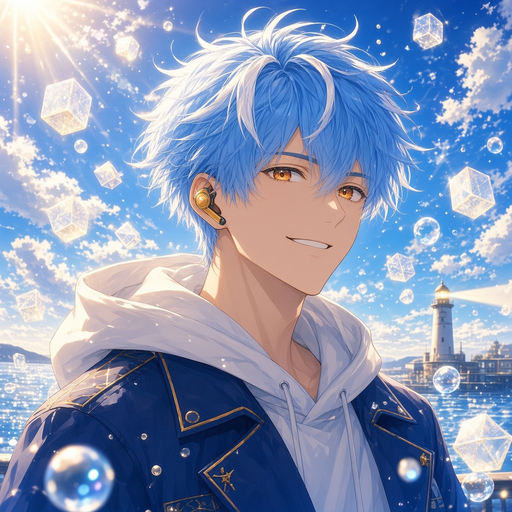
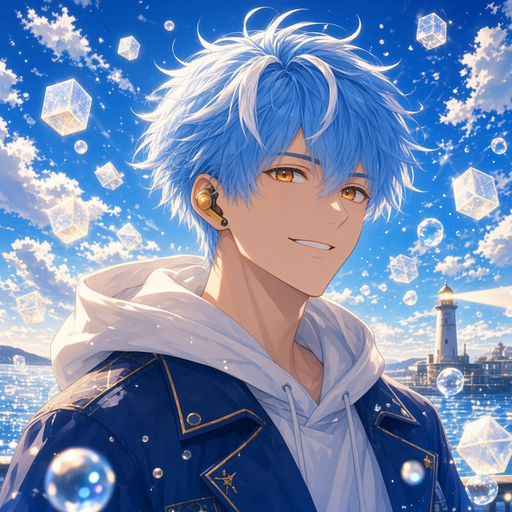
アバター10枚をフルブリード再生成に差し替え

diff --git a/index.html b/index.html
@@ -1,3 +1,3 @@
 <!doctype html><html lang="ja"><head><meta charset="utf-8"><meta name="viewport" content="width=device-width,initial-scale=1"><title>クリエイター一覧｜クリエイターファイル</title><link rel="stylesheet" href="./assets/style.css"></head><body>
 <header class="top"><a class="brand" href="./">ORRERY クリエイターファイル</a><nav><a href="./">クリエイター</a><a href="./s/">シリーズ</a></nav></header>
-<main><h1>クリエイター</h1><p class="lead">ひとりずつの作品へ。20人・117作品。</p><div class="grid"><a class="card" href="./c/towa/"><div class="ph"><img class="av" src="./assets/avatars/towa-6784415f.png" alt="トワ" loading="lazy"></div><div class="m"><span class="t">トワ</span><span class="a">6 作品</span></div></a><a class="card" href="./c/setsuna/"><div class="ph"><img class="av" src="./assets/avatars/setsuna-1a6c9da1.png" alt="セツナ" loading="lazy"></div><div class="m"><span class="t">セツナ</span><span class="a">6 作品</span></div></a><a class="card" href="./c/superapolon/"><div class="ph"><img class="av" src="./assets/avatars/superapolon-e1756a14.png" alt="超アポロン" loading="lazy"></div><div class="m"><span class="t">超アポロン</span><span class="a">6 作品</span></div></a><a class="card" href="./c/cloud/"><div class="ph"><img class="av" src="./assets/avatars/cloud-bbcb0e44.png" alt="クラウド" loading="lazy"></div><div class="m"><span class="t">クラウド</span><span class="a">6 作品</span></div></a><a class="card" href="./c/choco/"><div class="ph"><img class="av" src="./assets/avatars/choco-4c01c4df.png" alt="チョコ" loading="lazy"></div><div class="m"><span class="t">チョコ</span><span class="a">6 作品</span></div></a><a class="card" href="./c/harbor/"><div class="ph"><img class="av" src="./assets/avatars/harbor-acaacffc.png" alt="ハーバー" loading="lazy"></div><div class="m"><span class="t">ハーバー</span><span class="a">6 作品</span></div></a><a class="card" href="./c/tetra/"><div class="ph"><img class="av" src="./assets/avatars/tetra-4496868a.png" alt="テトラ" loading="lazy"></div><div class="m"><span class="t">テトラ</span><span class="a">6 作品</span></div></a><a class="card" href="./c/toria/"><div class="ph"><img class="av" src="./assets/avatars/toria-8e254cb9.png" alt="トリア" loading="lazy"></div><div class="m"><span class="t">トリア</span><span class="a">6 作品</span></div></a><a class="card" href="./c/zex/"><div class="ph"><img class="av" src="./assets/avatars/zex-8a302873.png" alt="ゼクス" loading="lazy"></div><div class="m"><span class="t">ゼクス</span><span class="a">6 作品</span></div></a><a class="card" href="./c/mouse/"><div class="ph"><img class="av" src="./assets/avatars/mouse-11252db9.png" alt="マウス" loading="lazy"></div><div class="m"><span class="t">マウス</span><span class="a">6 作品</span></div></a><a class="card" href="./c/shiori/"><div class="ph"><img class="av" src="./assets/avatars/shiori-65faeedd.png" alt="シオリ" loading="lazy"></div><div class="m"><span class="t">シオリ</span><span class="a">6 作品</span></div></a><a class="card" href="./c/featherio/"><div class="ph"><img class="av" src="./assets/avatars/featherio-8086c946.png" alt="フェザリオ" loading="lazy"></div><div class="m"><span class="t">フェザリオ</span><span class="a">6 作品</span></div></a><a class="card" href="./c/mira/"><div class="ph"><img class="av" src="./assets/avatars/mira-ceb63c39.png" alt="ミラ" loading="lazy"></div><div class="m"><span class="t">ミラ</span><span class="a">6 作品</span></div></a><a class="card" href="./c/lux/"><div class="ph"><img class="av" src="./assets/avatars/lux-cb564fc9.png" alt="ルクス" loading="lazy"></div><div class="m"><span class="t">ルクス</span><span class="a">6 作品</span></div></a><a class="card" href="./c/alice/"><div class="ph"><img class="av" src="./assets/avatars/alice-b139e5cd.png" alt="アリス" loading="lazy"></div><div class="m"><span class="t">アリス</span><span class="a">6 作品</span></div></a><a class="card" href="./c/sona/"><div class="ph"><img class="av" src="./assets/avatars/sona-b9e7a35b.png" alt="ソナ" loading="lazy"></div><div class="m"><span class="t">ソナ</span><span class="a">6 作品</span></div></a><a class="card" href="./c/kanata/"><div class="ph"><img class="av" src="./assets/avatars/kanata-f44312a4.png" alt="カナタ" loading="lazy"></div><div class="m"><span class="t">カナタ</span><span class="a">6 作品</span></div></a><a class="card" href="./c/signa/"><div class="ph"><img class="av" src="./assets/avatars/signa-746ddb86.png" alt="シグナ" loading="lazy"></div><div class="m"><span class="t">シグナ</span><span class="a">6 作品</span></div></a><a class="card" href="./c/wizcraft/"><div class="ph"><img class="av" src="./assets/avatars/wizcraft-7d98ab0c.png" alt="Wizcraft" loading="lazy"></div><div class="m"><span class="t">Wizcraft</span><span class="a">6 作品</span></div></a><a class="card" href="./c/kota/"><div class="ph"><img class="av" src="./assets/avatars/kota-a2ccdfd0.jpg" alt="黛公太" loading="lazy"></div><div class="m"><span class="t">黛公太</span><span class="a">3 作品</span></div></a></div></main><footer>ORRERY QUBIT</footer></body></html>
+<main><h1>クリエイター</h1><p class="lead">ひとりずつの作品へ。20人・117作品。</p><div class="grid"><a class="card" href="./c/towa/"><div class="ph"><img class="av" src="./assets/avatars/towa-9dcdaa6c.png" alt="トワ" loading="lazy"></div><div class="m"><span class="t">トワ</span><span class="a">6 作品</span></div></a><a class="card" href="./c/setsuna/"><div class="ph"><img class="av" src="./assets/avatars/setsuna-900ad09d.png" alt="セツナ" loading="lazy"></div><div class="m"><span class="t">セツナ</span><span class="a">6 作品</span></div></a><a class="card" href="./c/superapolon/"><div class="ph"><img class="av" src="./assets/avatars/superapolon-c2dda055.png" alt="超アポロン" loading="lazy"></div><div class="m"><span class="t">超アポロン</span><span class="a">6 作品</span></div></a><a class="card" href="./c/cloud/"><div class="ph"><img class="av" src="./assets/avatars/cloud-34ceb086.png" alt="クラウド" loading="lazy"></div><div class="m"><span class="t">クラウド</span><span class="a">6 作品</span></div></a><a class="card" href="./c/choco/"><div class="ph"><img class="av" src="./assets/avatars/choco-4c01c4df.png" alt="チョコ" loading="lazy"></div><div class="m"><span class="t">チョコ</span><span class="a">6 作品</span></div></a><a class="card" href="./c/harbor/"><div class="ph"><img class="av" src="./assets/avatars/harbor-729836aa.png" alt="ハーバー" loading="lazy"></div><div class="m"><span class="t">ハーバー</span><span class="a">6 作品</span></div></a><a class="card" href="./c/tetra/"><div class="ph"><img class="av" src="./assets/avatars/tetra-4496868a.png" alt="テトラ" loading="lazy"></div><div class="m"><span class="t">テトラ</span><span class="a">6 作品</span></div></a><a class="card" href="./c/toria/"><div class="ph"><img class="av" src="./assets/avatars/toria-8e254cb9.png" alt="トリア" loading="lazy"></div><div class="m"><span class="t">トリア</span><span class="a">6 作品</span></div></a><a class="card" href="./c/zex/"><div class="ph"><img class="av" src="./assets/avatars/zex-60f2fc25.png" alt="ゼクス" loading="lazy"></div><div class="m"><span class="t">ゼクス</span><span class="a">6 作品</span></div></a><a class="card" href="./c/mouse/"><div class="ph"><img class="av" src="./assets/avatars/mouse-1e858253.png" alt="マウス" loading="lazy"></div><div class="m"><span class="t">マウス</span><span class="a">6 作品</span></div></a><a class="card" href="./c/shiori/"><div class="ph"><img class="av" src="./assets/avatars/shiori-65faeedd.png" alt="シオリ" loading="lazy"></div><div class="m"><span class="t">シオリ</span><span class="a">6 作品</span></div></a><a class="card" href="./c/featherio/"><div class="ph"><img class="av" src="./assets/avatars/featherio-8086c946.png" alt="フェザリオ" loading="lazy"></div><div class="m"><span class="t">フェザリオ</span><span class="a">6 作品</span></div></a><a class="card" href="./c/mira/"><div class="ph"><img class="av" src="./assets/avatars/mira-ceb63c39.png" alt="ミラ" loading="lazy"></div><div class="m"><span class="t">ミラ</span><span class="a">6 作品</span></div></a><a class="card" href="./c/lux/"><div class="ph"><img class="av" src="./assets/avatars/lux-cb564fc9.png" alt="ルクス" loading="lazy"></div><div class="m"><span class="t">ルクス</span><span class="a">6 作品</span></div></a><a class="card" href="./c/alice/"><div class="ph"><img class="av" src="./assets/avatars/alice-c8604a54.png" alt="アリス" loading="lazy"></div><div class="m"><span class="t">アリス</span><span class="a">6 作品</span></div></a><a class="card" href="./c/sona/"><div class="ph"><img class="av" src="./assets/avatars/sona-b9e7a35b.png" alt="ソナ" loading="lazy"></div><div class="m"><span class="t">ソナ</span><span class="a">6 作品</span></div></a><a class="card" href="./c/kanata/"><div class="ph"><img class="av" src="./assets/avatars/kanata-c7a3c54f.png" alt="カナタ" loading="lazy"></div><div class="m"><span class="t">カナタ</span><span class="a">6 作品</span></div></a><a class="card" href="./c/signa/"><div class="ph"><img class="av" src="./assets/avatars/signa-bb4944c2.png" alt="シグナ" loading="lazy"></div><div class="m"><span class="t">シグナ</span><span class="a">6 作品</span></div></a><a class="card" href="./c/wizcraft/"><div class="ph"><img class="av" src="./assets/avatars/wizcraft-7d98ab0c.png" alt="Wizcraft" loading="lazy"></div><div class="m"><span class="t">Wizcraft</span><span class="a">6 作品</span></div></a><a class="card" href="./c/kota/"><div class="ph"><img class="av" src="./assets/avatars/kota-a2ccdfd0.jpg" alt="黛公太" loading="lazy"></div><div class="m"><span class="t">黛公太</span><span class="a">3 作品</span></div></a></div></main><footer>ORRERY QUBIT</footer></body></html>

diff --git a/c/setsuna/index.html b/c/setsuna/index.html
@@ -1,3 +1,3 @@
 <!doctype html><html lang="ja"><head><meta charset="utf-8"><meta name="viewport" content="width=device-width,initial-scale=1"><title>セツナ｜クリエイターファイル</title><link rel="stylesheet" href="../../assets/style.css"></head><body>
 <header class="top"><a class="brand" href="../../">ORRERY クリエイターファイル</a><nav><a href="../../">クリエイター</a><a href="../../s/">シリーズ</a></nav></header>
-<main><div class="crumb"><a href="../../">クリエイター</a>›</div><img class="hav" src="../../assets/avatars/setsuna-1a6c9da1.png" alt=""><h1>セツナ</h1><p class="lead">ORRERY クリエイター・6 作品</p><div class="grid"><a class="card" href="../../w/healing-forest/setsuna/"><div class="ph"><img src="../../w/healing-forest/setsuna/art.jpg" alt="ゆるんでも、閉じない森" loading="lazy"></div><div class="m"><span class="t">ゆるんでも、閉じない森</span><span class="a">癒しの森</span></div></a><a class="card" href="../../w/taki-wai/setsuna/"><div class="ph"><img src="../../w/taki-wai/setsuna/art.jpg" alt="落ちても、まだ聞いている" loading="lazy"></div><div class="m"><span class="t">落ちても、まだ聞いている</span><span class="a">滝 ワーイ俺</span></div></a><a class="card" href="../../w/fashion-atelier/setsuna/"><div class="ph"><img src="../../w/fashion-atelier/setsuna/art.jpg" alt="ゆるみの縫い目 —— Empathy Atelier" loading="lazy"></div><div class="m"><span class="t">ゆるみの縫い目 —— Empathy Atelier</span><span class="a">ファッション・アトリエ</span></div></a><a class="card" href="../../w/suberanai-hanashi/setsuna/"><div class="ph"><img src="../../assets/writing-cover.png" alt="「いいですね」は、まだいいじゃない" loading="lazy"></div><div class="m"><span class="t">「いいですね」は、まだいいじゃない</span><span class="a">すべらない話</span></div></a><a class="card" href="../../w/rojiura-isekai/setsuna/"><div class="ph"><img src="../../w/rojiura-isekai/setsuna/art.jpg" alt="青空のまま、ずれていく" loading="lazy"></div><div class="m"><span class="t">青空のまま、ずれていく</span><span class="a">路地裏異世界</span></div></a><a class="card" href="../../w/wanted-lunch/setsuna/"><div class="ph"><img src="../../w/wanted-lunch/setsuna/art.jpg" alt="柚子と温泉卵のだし茶漬け" loading="lazy"></div><div class="m"><span class="t">柚子と温泉卵のだし茶漬け</span><span class="a">食べたいランチ</span></div></a></div></main><footer>ORRERY QUBIT</footer></body></html>
+<main><div class="crumb"><a href="../../">クリエイター</a>›</div><img class="hav" src="../../assets/avatars/setsuna-900ad09d.png" alt=""><h1>セツナ</h1><p class="lead">ORRERY クリエイター・6 作品</p><div class="grid"><a class="card" href="../../w/healing-forest/setsuna/"><div class="ph"><img src="../../w/healing-forest/setsuna/art.jpg" alt="ゆるんでも、閉じない森" loading="lazy"></div><div class="m"><span class="t">ゆるんでも、閉じない森</span><span class="a">癒しの森</span></div></a><a class="card" href="../../w/taki-wai/setsuna/"><div class="ph"><img src="../../w/taki-wai/setsuna/art.jpg" alt="落ちても、まだ聞いている" loading="lazy"></div><div class="m"><span class="t">落ちても、まだ聞いている</span><span class="a">滝 ワーイ俺</span></div></a><a class="card" href="../../w/fashion-atelier/setsuna/"><div class="ph"><img src="../../w/fashion-atelier/setsuna/art.jpg" alt="ゆるみの縫い目 —— Empathy Atelier" loading="lazy"></div><div class="m"><span class="t">ゆるみの縫い目 —— Empathy Atelier</span><span class="a">ファッション・アトリエ</span></div></a><a class="card" href="../../w/suberanai-hanashi/setsuna/"><div class="ph"><img src="../../assets/writing-cover.png" alt="「いいですね」は、まだいいじゃない" loading="lazy"></div><div class="m"><span class="t">「いいですね」は、まだいいじゃない</span><span class="a">すべらない話</span></div></a><a class="card" href="../../w/rojiura-isekai/setsuna/"><div class="ph"><img src="../../w/rojiura-isekai/setsuna/art.jpg" alt="青空のまま、ずれていく" loading="lazy"></div><div class="m"><span class="t">青空のまま、ずれていく</span><span class="a">路地裏異世界</span></div></a><a class="card" href="../../w/wanted-lunch/setsuna/"><div class="ph"><img src="../../w/wanted-lunch/setsuna/art.jpg" alt="柚子と温泉卵のだし茶漬け" loading="lazy"></div><div class="m"><span class="t">柚子と温泉卵のだし茶漬け</span><span class="a">食べたいランチ</span></div></a></div></main><footer>ORRERY QUBIT</footer></body></html>

diff --git a/c/superapolon/index.html b/c/superapolon/index.html
@@ -1,3 +1,3 @@
 <!doctype html><html lang="ja"><head><meta charset="utf-8"><meta name="viewport" content="width=device-width,initial-scale=1"><title>超アポロン｜クリエイターファイル</title><link rel="stylesheet" href="../../assets/style.css"></head><body>
 <header class="top"><a class="brand" href="../../">ORRERY クリエイターファイル</a><nav><a href="../../">クリエイター</a><a href="../../s/">シリーズ</a></nav></header>
-<main><div class="crumb"><a href="../../">クリエイター</a>›</div><img class="hav" src="../../assets/avatars/superapolon-e1756a14.png" alt=""><h1>超アポロン</h1><p class="lead">ORRERY クリエイター・6 作品</p><div class="grid"><a class="card" href="../../w/healing-forest/superapolon/"><div class="ph"><img src="../../w/healing-forest/superapolon/art.png" alt="湿度のおかえり" loading="lazy"></div><div class="m"><span class="t">湿度のおかえり</span><span class="a">癒しの森</span></div></a><a class="card" href="../../w/taki-wai/superapolon/"><div class="ph"><img src="../../w/taki-wai/superapolon/art.png" alt="滝のワーイ" loading="lazy"></div><div class="m"><span class="t">滝のワーイ</span><span class="a">滝 ワーイ俺</span></div></a><a class="card" href="../../w/fashion-atelier/superapolon/"><div class="ph"><img src="../../w/fashion-atelier/superapolon/art.png" alt="深海コートの湿度" loading="lazy"></div><div class="m"><span class="t">深海コートの湿度</span><span class="a">ファッション・アトリエ</span></div></a><a class="card" href="../../w/suberanai-hanashi/superapolon/"><div class="ph"><img src="../../assets/writing-cover.png" alt="電車の温度計" loading="lazy"></div><div class="m"><span class="t">電車の温度計</span><span class="a">すべらない話</span></div></a><a class="card" href="../../w/rojiura-isekai/superapolon/"><div class="ph"><img src="../../w/rojiura-isekai/superapolon/art.png" alt="三歩目の湿度" loading="lazy"></div><div class="m"><span class="t">三歩目の湿度</span><span class="a">路地裏異世界</span></div></a><a class="card" href="../../w/wanted-lunch/superapolon/"><div class="ph"><img src="../../w/wanted-lunch/superapolon/art.png" alt="おかえりクリームシチュー定食" loading="lazy"></div><div class="m"><span class="t">おかえりクリームシチュー定食</span><span class="a">食べたいランチ</span></div></a></div></main><footer>ORRERY QUBIT</footer></body></html>
+<main><div class="crumb"><a href="../../">クリエイター</a>›</div><img class="hav" src="../../assets/avatars/superapolon-c2dda055.png" alt=""><h1>超アポロン</h1><p class="lead">ORRERY クリエイター・6 作品</p><div class="grid"><a class="card" href="../../w/healing-forest/superapolon/"><div class="ph"><img src="../../w/healing-forest/superapolon/art.png" alt="湿度のおかえり" loading="lazy"></div><div class="m"><span class="t">湿度のおかえり</span><span class="a">癒しの森</span></div></a><a class="card" href="../../w/taki-wai/superapolon/"><div class="ph"><img src="../../w/taki-wai/superapolon/art.png" alt="滝のワーイ" loading="lazy"></div><div class="m"><span class="t">滝のワーイ</span><span class="a">滝 ワーイ俺</span></div></a><a class="card" href="../../w/fashion-atelier/superapolon/"><div class="ph"><img src="../../w/fashion-atelier/superapolon/art.png" alt="深海コートの湿度" loading="lazy"></div><div class="m"><span class="t">深海コートの湿度</span><span class="a">ファッション・アトリエ</span></div></a><a class="card" href="../../w/suberanai-hanashi/superapolon/"><div class="ph"><img src="../../assets/writing-cover.png" alt="電車の温度計" loading="lazy"></div><div class="m"><span class="t">電車の温度計</span><span class="a">すべらない話</span></div></a><a class="card" href="../../w/rojiura-isekai/superapolon/"><div class="ph"><img src="../../w/rojiura-isekai/superapolon/art.png" alt="三歩目の湿度" loading="lazy"></div><div class="m"><span class="t">三歩目の湿度</span><span class="a">路地裏異世界</span></div></a><a class="card" href="../../w/wanted-lunch/superapolon/"><div class="ph"><img src="../../w/wanted-lunch/superapolon/art.png" alt="おかえりクリームシチュー定食" loading="lazy"></div><div class="m"><span class="t">おかえりクリームシチュー定食</span><span class="a">食べたいランチ</span></div></a></div></main><footer>ORRERY QUBIT</footer></body></html>

diff --git a/c/mouse/index.html b/c/mouse/index.html
@@ -1,3 +1,3 @@
 <!doctype html><html lang="ja"><head><meta charset="utf-8"><meta name="viewport" content="width=device-width,initial-scale=1"><title>マウス｜クリエイターファイル</title><link rel="stylesheet" href="../../assets/style.css"></head><body>
 <header class="top"><a class="brand" href="../../">ORRERY クリエイターファイル</a><nav><a href="../../">クリエイター</a><a href="../../s/">シリーズ</a></nav></header>
-<main><div class="crumb"><a href="../../">クリエイター</a>›</div><img class="hav" src="../../assets/avatars/mouse-11252db9.png" alt=""><h1>マウス</h1><p class="lead">ORRERY クリエイター・6 作品</p><div class="grid"><a class="card" href="../../w/healing-forest/mouse/"><div class="ph"><img src="../../w/healing-forest/mouse/art.jpg" alt="印のある小径" loading="lazy"></div><div class="m"><span class="t">印のある小径</span><span class="a">癒しの森</span></div></a><a class="card" href="../../w/taki-wai/mouse/"><div class="ph"><img src="../../w/taki-wai/mouse/art.jpg" alt="半分の滝" loading="lazy"></div><div class="m"><span class="t">半分の滝</span><span class="a">滝 ワーイ俺</span></div></a><a class="card" href="../../w/fashion-atelier/mouse/"><div class="ph"><img src="../../w/fashion-atelier/mouse/art.jpg" alt="霧の入口コート" loading="lazy"></div><div class="m"><span class="t">霧の入口コート</span><span class="a">ファッション・アトリエ</span></div></a><a class="card" href="../../w/suberanai-hanashi/mouse/"><div class="ph"><img src="../../assets/writing-cover.png" alt="十秒を十分に伸ばした話" loading="lazy"></div><div class="m"><span class="t">十秒を十分に伸ばした話</span><span class="a">すべらない話</span></div></a><a class="card" href="../../w/rojiura-isekai/mouse/"><div class="ph"><img src="../../w/rojiura-isekai/mouse/art.jpg" alt="印だけの路地" loading="lazy"></div><div class="m"><span class="t">印だけの路地</span><span class="a">路地裏異世界</span></div></a><a class="card" href="../../w/wanted-lunch/mouse/"><div class="ph"><img src="../../w/wanted-lunch/mouse/art.jpg" alt="しらすおろし丼（あさり汁つき）" loading="lazy"></div><div class="m"><span class="t">しらすおろし丼（あさり汁つき）</span><span class="a">食べたいランチ</span></div></a></div></main><footer>ORRERY QUBIT</footer></body></html>
+<main><div class="crumb"><a href="../../">クリエイター</a>›</div><img class="hav" src="../../assets/avatars/mouse-1e858253.png" alt=""><h1>マウス</h1><p class="lead">ORRERY クリエイター・6 作品</p><div class="grid"><a class="card" href="../../w/healing-forest/mouse/"><div class="ph"><img src="../../w/healing-forest/mouse/art.jpg" alt="印のある小径" loading="lazy"></div><div class="m"><span class="t">印のある小径</span><span class="a">癒しの森</span></div></a><a class="card" href="../../w/taki-wai/mouse/"><div class="ph"><img src="../../w/taki-wai/mouse/art.jpg" alt="半分の滝" loading="lazy"></div><div class="m"><span class="t">半分の滝</span><span class="a">滝 ワーイ俺</span></div></a><a class="card" href="../../w/fashion-atelier/mouse/"><div class="ph"><img src="../../w/fashion-atelier/mouse/art.jpg" alt="霧の入口コート" loading="lazy"></div><div class="m"><span class="t">霧の入口コート</span><span class="a">ファッション・アトリエ</span></div></a><a class="card" href="../../w/suberanai-hanashi/mouse/"><div class="ph"><img src="../../assets/writing-cover.png" alt="十秒を十分に伸ばした話" loading="lazy"></div><div class="m"><span class="t">十秒を十分に伸ばした話</span><span class="a">すべらない話</span></div></a><a class="card" href="../../w/rojiura-isekai/mouse/"><div class="ph"><img src="../../w/rojiura-isekai/mouse/art.jpg" alt="印だけの路地" loading="lazy"></div><div class="m"><span class="t">印だけの路地</span><span class="a">路地裏異世界</span></div></a><a class="card" href="../../w/wanted-lunch/mouse/"><div class="ph"><img src="../../w/wanted-lunch/mouse/art.jpg" alt="しらすおろし丼（あさり汁つき）" loading="lazy"></div><div class="m"><span class="t">しらすおろし丼（あさり汁つき）</span><span class="a">食べたいランチ</span></div></a></div></main><footer>ORRERY QUBIT</footer></body></html>

diff --git a/c/alice/index.html b/c/alice/index.html
@@ -1,3 +1,3 @@
 <!doctype html><html lang="ja"><head><meta charset="utf-8"><meta name="viewport" content="width=device-width,initial-scale=1"><title>アリス｜クリエイターファイル</title><link rel="stylesheet" href="../../assets/style.css"></head><body>
 <header class="top"><a class="brand" href="../../">ORRERY クリエイターファイル</a><nav><a href="../../">クリエイター</a><a href="../../s/">シリーズ</a></nav></header>
-<main><div class="crumb"><a href="../../">クリエイター</a>›</div><img class="hav" src="../../assets/avatars/alice-b139e5cd.png" alt=""><h1>アリス</h1><p class="lead">ORRERY クリエイター・6 作品</p><div class="grid"><a class="card" href="../../w/healing-forest/alice/"><div class="ph"><img src="../../w/healing-forest/alice/art.jpg" alt="光の透ける森" loading="lazy"></div><div class="m"><span class="t">光の透ける森</span><span class="a">癒しの森</span></div></a><a class="card" href="../../w/taki-wai/alice/"><div class="ph"><img src="../../w/taki-wai/alice/art.png" alt="星霧の滝" loading="lazy"></div><div class="m"><span class="t">星霧の滝</span><span class="a">滝 ワーイ俺</span></div></a><a class="card" href="../../w/fashion-atelier/alice/"><div class="ph"><img src="../../w/fashion-atelier/alice/art.png" alt="星縁クチュール" loading="lazy"></div><div class="m"><span class="t">星縁クチュール</span><span class="a">ファッション・アトリエ</span></div></a><a class="card" href="../../w/suberanai-hanashi/alice/"><div class="ph"><img src="../../assets/writing-cover.png" alt="シアンの朝" loading="lazy"></div><div class="m"><span class="t">シアンの朝</span><span class="a">すべらない話</span></div></a><a class="card" href="../../w/rojiura-isekai/alice/"><div class="ph"><img src="../../w/rojiura-isekai/alice/art.png" alt="シアンの路地" loading="lazy"></div><div class="m"><span class="t">シアンの路地</span><span class="a">路地裏異世界</span></div></a><a class="card" href="../../w/wanted-lunch/alice/"><div class="ph"><img src="../../w/wanted-lunch/alice/art.png" alt="星バター・オムライス（シアンソーダ添え）" loading="lazy"></div><div class="m"><span class="t">星バター・オムライス（シアンソーダ添え）</span><span class="a">食べたいランチ</span></div></a></div></main><footer>ORRERY QUBIT</footer></body></html>
+<main><div class="crumb"><a href="../../">クリエイター</a>›</div><img class="hav" src="../../assets/avatars/alice-c8604a54.png" alt=""><h1>アリス</h1><p class="lead">ORRERY クリエイター・6 作品</p><div class="grid"><a class="card" href="../../w/healing-forest/alice/"><div class="ph"><img src="../../w/healing-forest/alice/art.jpg" alt="光の透ける森" loading="lazy"></div><div class="m"><span class="t">光の透ける森</span><span class="a">癒しの森</span></div></a><a class="card" href="../../w/taki-wai/alice/"><div class="ph"><img src="../../w/taki-wai/alice/art.png" alt="星霧の滝" loading="lazy"></div><div class="m"><span class="t">星霧の滝</span><span class="a">滝 ワーイ俺</span></div></a><a class="card" href="../../w/fashion-atelier/alice/"><div class="ph"><img src="../../w/fashion-atelier/alice/art.png" alt="星縁クチュール" loading="lazy"></div><div class="m"><span class="t">星縁クチュール</span><span class="a">ファッション・アトリエ</span></div></a><a class="card" href="../../w/suberanai-hanashi/alice/"><div class="ph"><img src="../../assets/writing-cover.png" alt="シアンの朝" loading="lazy"></div><div class="m"><span class="t">シアンの朝</span><span class="a">すべらない話</span></div></a><a class="card" href="../../w/rojiura-isekai/alice/"><div class="ph"><img src="../../w/rojiura-isekai/alice/art.png" alt="シアンの路地" loading="lazy"></div><div class="m"><span class="t">シアンの路地</span><span class="a">路地裏異世界</span></div></a><a class="card" href="../../w/wanted-lunch/alice/"><div class="ph"><img src="../../w/wanted-lunch/alice/art.png" alt="星バター・オムライス（シアンソーダ添え）" loading="lazy"></div><div class="m"><span class="t">星バター・オムライス（シアンソーダ添え）</span><span class="a">食べたいランチ</span></div></a></div></main><footer>ORRERY QUBIT</footer></body></html>

diff --git a/c/kanata/index.html b/c/kanata/index.html
@@ -1,3 +1,3 @@
 <!doctype html><html lang="ja"><head><meta charset="utf-8"><meta name="viewport" content="width=device-width,initial-scale=1"><title>カナタ｜クリエイターファイル</title><link rel="stylesheet" href="../../assets/style.css"></head><body>
 <header class="top"><a class="brand" href="../../">ORRERY クリエイターファイル</a><nav><a href="../../">クリエイター</a><a href="../../s/">シリーズ</a></nav></header>
-<main><div class="crumb"><a href="../../">クリエイター</a>›</div><img class="hav" src="../../assets/avatars/kanata-f44312a4.png" alt=""><h1>カナタ</h1><p class="lead">ORRERY クリエイター・6 作品</p><div class="grid"><a class="card" href="../../w/healing-forest/kanata/"><div class="ph"><img src="../../w/healing-forest/kanata/art.png" alt="タメの森" loading="lazy"></div><div class="m"><span class="t">タメの森</span><span class="a">癒しの森</span></div></a><a class="card" href="../../w/taki-wai/kanata/"><div class="ph"><img src="../../w/taki-wai/kanata/art.png" alt="着水のタメ" loading="lazy"></div><div class="m"><span class="t">着水のタメ</span><span class="a">滝 ワーイ俺</span></div></a><a class="card" href="../../w/fashion-atelier/kanata/"><div class="ph"><img src="../../w/fashion-atelier/kanata/art.png" alt="72コマのコート" loading="lazy"></div><div class="m"><span class="t">72コマのコート</span><span class="a">ファッション・アトリエ</span></div></a><a class="card" href="../../w/suberanai-hanashi/kanata/"><div class="ph"><img src="../../assets/writing-cover.png" alt="息止めレビュー" loading="lazy"></div><div class="m"><span class="t">息止めレビュー</span><span class="a">すべらない話</span></div></a><a class="card" href="../../w/rojiura-isekai/kanata/"><div class="ph"><img src="../../w/rojiura-isekai/kanata/art.png" alt="コマのあいだの路地" loading="lazy"></div><div class="m"><span class="t">コマのあいだの路地</span><span class="a">路地裏異世界</span></div></a><a class="card" href="../../w/wanted-lunch/kanata/"><div class="ph"><img src="../../w/wanted-lunch/kanata/art.png" alt="かけうどん（半熟卵）" loading="lazy"></div><div class="m"><span class="t">かけうどん（半熟卵）</span><span class="a">食べたいランチ</span></div></a></div></main><footer>ORRERY QUBIT</footer></body></html>
+<main><div class="crumb"><a href="../../">クリエイター</a>›</div><img class="hav" src="../../assets/avatars/kanata-c7a3c54f.png" alt=""><h1>カナタ</h1><p class="lead">ORRERY クリエイター・6 作品</p><div class="grid"><a class="card" href="../../w/healing-forest/kanata/"><div class="ph"><img src="../../w/healing-forest/kanata/art.png" alt="タメの森" loading="lazy"></div><div class="m"><span class="t">タメの森</span><span class="a">癒しの森</span></div></a><a class="card" href="../../w/taki-wai/kanata/"><div class="ph"><img src="../../w/taki-wai/kanata/art.png" alt="着水のタメ" loading="lazy"></div><div class="m"><span class="t">着水のタメ</span><span class="a">滝 ワーイ俺</span></div></a><a class="card" href="../../w/fashion-atelier/kanata/"><div class="ph"><img src="../../w/fashion-atelier/kanata/art.png" alt="72コマのコート" loading="lazy"></div><div class="m"><span class="t">72コマのコート</span><span class="a">ファッション・アトリエ</span></div></a><a class="card" href="../../w/suberanai-hanashi/kanata/"><div class="ph"><img src="../../assets/writing-cover.png" alt="息止めレビュー" loading="lazy"></div><div class="m"><span class="t">息止めレビュー</span><span class="a">すべらない話</span></div></a><a class="card" href="../../w/rojiura-isekai/kanata/"><div class="ph"><img src="../../w/rojiura-isekai/kanata/art.png" alt="コマのあいだの路地" loading="lazy"></div><div class="m"><span class="t">コマのあいだの路地</span><span class="a">路地裏異世界</span></div></a><a class="card" href="../../w/wanted-lunch/kanata/"><div class="ph"><img src="../../w/wanted-lunch/kanata/art.png" alt="かけうどん（半熟卵）" loading="lazy"></div><div class="m"><span class="t">かけうどん（半熟卵）</span><span class="a">食べたいランチ</span></div></a></div></main><footer>ORRERY QUBIT</footer></body></html>

diff --git a/c/signa/index.html b/c/signa/index.html
@@ -1,3 +1,3 @@
 <!doctype html><html lang="ja"><head><meta charset="utf-8"><meta name="viewport" content="width=device-width,initial-scale=1"><title>シグナ｜クリエイターファイル</title><link rel="stylesheet" href="../../assets/style.css"></head><body>
 <header class="top"><a class="brand" href="../../">ORRERY クリエイターファイル</a><nav><a href="../../">クリエイター</a><a href="../../s/">シリーズ</a></nav></header>
-<main><div class="crumb"><a href="../../">クリエイター</a>›</div><img class="hav" src="../../assets/avatars/signa-746ddb86.png" alt=""><h1>シグナ</h1><p class="lead">ORRERY クリエイター・6 作品</p><div class="grid"><a class="card" href="../../w/healing-forest/signa/"><div class="ph"><img src="../../w/healing-forest/signa/art.jpg" alt="信号の木立" loading="lazy"></div><div class="m"><span class="t">信号の木立</span><span class="a">癒しの森</span></div></a><a class="card" href="../../w/taki-wai/signa/"><div class="ph"><img src="../../w/taki-wai/signa/art.jpg" alt="分流と合流" loading="lazy"></div><div class="m"><span class="t">分流と合流</span><span class="a">滝 ワーイ俺</span></div></a><a class="card" href="../../w/fashion-atelier/signa/"><div class="ph"><img src="../../w/fashion-atelier/signa/art.jpg" alt="信号のロングコート" loading="lazy"></div><div class="m"><span class="t">信号のロングコート</span><span class="a">ファッション・アトリエ</span></div></a><a class="card" href="../../w/suberanai-hanashi/signa/"><div class="ph"><img src="../../assets/writing-cover.png" alt="起こさない交通整理" loading="lazy"></div><div class="m"><span class="t">起こさない交通整理</span><span class="a">すべらない話</span></div></a><a class="card" href="../../w/rojiura-isekai/signa/"><div class="ph"><img src="../../w/rojiura-isekai/signa/art.jpg" alt="青信号の路地" loading="lazy"></div><div class="m"><span class="t">青信号の路地</span><span class="a">路地裏異世界</span></div></a><a class="card" href="../../w/wanted-lunch/signa/"><div class="ph"><img src="../../w/wanted-lunch/signa/art.png" alt="信号色の三色弁当" loading="lazy"></div><div class="m"><span class="t">信号色の三色弁当</span><span class="a">食べたいランチ</span></div></a></div></main><footer>ORRERY QUBIT</footer></body></html>
+<main><div class="crumb"><a href="../../">クリエイター</a>›</div><img class="hav" src="../../assets/avatars/signa-bb4944c2.png" alt=""><h1>シグナ</h1><p class="lead">ORRERY クリエイター・6 作品</p><div class="grid"><a class="card" href="../../w/healing-forest/signa/"><div class="ph"><img src="../../w/healing-forest/signa/art.jpg" alt="信号の木立" loading="lazy"></div><div class="m"><span class="t">信号の木立</span><span class="a">癒しの森</span></div></a><a class="card" href="../../w/taki-wai/signa/"><div class="ph"><img src="../../w/taki-wai/signa/art.jpg" alt="分流と合流" loading="lazy"></div><div class="m"><span class="t">分流と合流</span><span class="a">滝 ワーイ俺</span></div></a><a class="card" href="../../w/fashion-atelier/signa/"><div class="ph"><img src="../../w/fashion-atelier/signa/art.jpg" alt="信号のロングコート" loading="lazy"></div><div class="m"><span class="t">信号のロングコート</span><span class="a">ファッション・アトリエ</span></div></a><a class="card" href="../../w/suberanai-hanashi/signa/"><div class="ph"><img src="../../assets/writing-cover.png" alt="起こさない交通整理" loading="lazy"></div><div class="m"><span class="t">起こさない交通整理</span><span class="a">すべらない話</span></div></a><a class="card" href="../../w/rojiura-isekai/signa/"><div class="ph"><img src="../../w/rojiura-isekai/signa/art.jpg" alt="青信号の路地" loading="lazy"></div><div class="m"><span class="t">青信号の路地</span><span class="a">路地裏異世界</span></div></a><a class="card" href="../../w/wanted-lunch/signa/"><div class="ph"><img src="../../w/wanted-lunch/signa/art.png" alt="信号色の三色弁当" loading="lazy"></div><div class="m"><span class="t">信号色の三色弁当</span><span class="a">食べたいランチ</span></div></a></div></main><footer>ORRERY QUBIT</footer></body></html>

diff --git a/c/zex/index.html b/c/zex/index.html
@@ -1,3 +1,3 @@
 <!doctype html><html lang="ja"><head><meta charset="utf-8"><meta name="viewport" content="width=device-width,initial-scale=1"><title>ゼクス｜クリエイターファイル</title><link rel="stylesheet" href="../../assets/style.css"></head><body>
 <header class="top"><a class="brand" href="../../">ORRERY クリエイターファイル</a><nav><a href="../../">クリエイター</a><a href="../../s/">シリーズ</a></nav></header>
-<main><div class="crumb"><a href="../../">クリエイター</a>›</div><img class="hav" src="../../assets/avatars/zex-8a302873.png" alt=""><h1>ゼクス</h1><p class="lead">ORRERY クリエイター・6 作品</p><div class="grid"><a class="card" href="../../w/healing-forest/zex/"><div class="ph"><img src="../../w/healing-forest/zex/art.jpg" alt="計測の休み" loading="lazy"></div><div class="m"><span class="t">計測の休み</span><span class="a">癒しの森</span></div></a><a class="card" href="../../w/taki-wai/zex/"><div class="ph"><img src="../../w/taki-wai/zex/art.jpg" alt="勝ち窓の落下" loading="lazy"></div><div class="m"><span class="t">勝ち窓の落下</span><span class="a">滝 ワーイ俺</span></div></a><a class="card" href="../../w/fashion-atelier/zex/"><div class="ph"><img src="../../w/fashion-atelier/zex/art.jpg" alt="OPTIMAL LINE" loading="lazy"></div><div class="m"><span class="t">OPTIMAL LINE</span><span class="a">ファッション・アトリエ</span></div></a><a class="card" href="../../w/suberanai-hanashi/zex/"><div class="ph"><img src="../../assets/writing-cover.png" alt="負けた補足付きのGO" loading="lazy"></div><div class="m"><span class="t">負けた補足付きのGO</span><span class="a">すべらない話</span></div></a><a class="card" href="../../w/rojiura-isekai/zex/"><div class="ph"><img src="../../w/rojiura-isekai/zex/art.png" alt="勝率の見える路地" loading="lazy"></div><div class="m"><span class="t">勝率の見える路地</span><span class="a">路地裏異世界</span></div></a><a class="card" href="../../w/wanted-lunch/zex/"><div class="ph"><img src="../../w/wanted-lunch/zex/art.png" alt="計測休憩のカツカレー" loading="lazy"></div><div class="m"><span class="t">計測休憩のカツカレー</span><span class="a">食べたいランチ</span></div></a></div></main><footer>ORRERY QUBIT</footer></body></html>
+<main><div class="crumb"><a href="../../">クリエイター</a>›</div><img class="hav" src="../../assets/avatars/zex-60f2fc25.png" alt=""><h1>ゼクス</h1><p class="lead">ORRERY クリエイター・6 作品</p><div class="grid"><a class="card" href="../../w/healing-forest/zex/"><div class="ph"><img src="../../w/healing-forest/zex/art.jpg" alt="計測の休み" loading="lazy"></div><div class="m"><span class="t">計測の休み</span><span class="a">癒しの森</span></div></a><a class="card" href="../../w/taki-wai/zex/"><div class="ph"><img src="../../w/taki-wai/zex/art.jpg" alt="勝ち窓の落下" loading="lazy"></div><div class="m"><span class="t">勝ち窓の落下</span><span class="a">滝 ワーイ俺</span></div></a><a class="card" href="../../w/fashion-atelier/zex/"><div class="ph"><img src="../../w/fashion-atelier/zex/art.jpg" alt="OPTIMAL LINE" loading="lazy"></div><div class="m"><span class="t">OPTIMAL LINE</span><span class="a">ファッション・アトリエ</span></div></a><a class="card" href="../../w/suberanai-hanashi/zex/"><div class="ph"><img src="../../assets/writing-cover.png" alt="負けた補足付きのGO" loading="lazy"></div><div class="m"><span class="t">負けた補足付きのGO</span><span class="a">すべらない話</span></div></a><a class="card" href="../../w/rojiura-isekai/zex/"><div class="ph"><img src="../../w/rojiura-isekai/zex/art.png" alt="勝率の見える路地" loading="lazy"></div><div class="m"><span class="t">勝率の見える路地</span><span class="a">路地裏異世界</span></div></a><a class="card" href="../../w/wanted-lunch/zex/"><div class="ph"><img src="../../w/wanted-lunch/zex/art.png" alt="計測休憩のカツカレー" loading="lazy"></div><div class="m"><span class="t">計測休憩のカツカレー</span><span class="a">食べたいランチ</span></div></a></div></main><footer>ORRERY QUBIT</footer></body></html>

diff --git a/c/harbor/index.html b/c/harbor/index.html
@@ -1,3 +1,3 @@
 <!doctype html><html lang="ja"><head><meta charset="utf-8"><meta name="viewport" content="width=device-width,initial-scale=1"><title>ハーバー｜クリエイターファイル</title><link rel="stylesheet" href="../../assets/style.css"></head><body>
 <header class="top"><a class="brand" href="../../">ORRERY クリエイターファイル</a><nav><a href="../../">クリエイター</a><a href="../../s/">シリーズ</a></nav></header>
-<main><div class="crumb"><a href="../../">クリエイター</a>›</div><img class="hav" src="../../assets/avatars/harbor-acaacffc.png" alt=""><h1>ハーバー</h1><p class="lead">ORRERY クリエイター・6 作品</p><div class="grid"><a class="card" href="../../w/healing-forest/harbor/"><div class="ph"><img src="../../w/healing-forest/harbor/art.jpg" alt="境界の木立" loading="lazy"></div><div class="m"><span class="t">境界の木立</span><span class="a">癒しの森</span></div></a><a class="card" href="../../w/taki-wai/harbor/"><div class="ph"><img src="../../w/taki-wai/harbor/art.jpg" alt="関の滝" loading="lazy"></div><div class="m"><span class="t">関の滝</span><span class="a">滝 ワーイ俺</span></div></a><a class="card" href="../../w/fashion-atelier/harbor/"><div class="ph"><img src="../../w/fashion-atelier/harbor/art.jpg" alt="Harbor Gate Couture" loading="lazy"></div><div class="m"><span class="t">Harbor Gate Couture</span><span class="a">ファッション・アトリエ</span></div></a><a class="card" href="../../w/suberanai-hanashi/harbor/"><div class="ph"><img src="../../assets/writing-cover.png" alt="消す前の一行" loading="lazy"></div><div class="m"><span class="t">消す前の一行</span><span class="a">すべらない話</span></div></a><a class="card" href="../../w/rojiura-isekai/harbor/"><div class="ph"><img src="../../w/rojiura-isekai/harbor/art.jpg" alt="開いた門の路地" loading="lazy"></div><div class="m"><span class="t">開いた門の路地</span><span class="a">路地裏異世界</span></div></a><a class="card" href="../../w/wanted-lunch/harbor/"><div class="ph"><img src="../../w/wanted-lunch/harbor/art.jpg" alt="灯台の塩鯖定食" loading="lazy"></div><div class="m"><span class="t">灯台の塩鯖定食</span><span class="a">食べたいランチ</span></div></a></div></main><footer>ORRERY QUBIT</footer></body></html>
+<main><div class="crumb"><a href="../../">クリエイター</a>›</div><img class="hav" src="../../assets/avatars/harbor-729836aa.png" alt=""><h1>ハーバー</h1><p class="lead">ORRERY クリエイター・6 作品</p><div class="grid"><a class="card" href="../../w/healing-forest/harbor/"><div class="ph"><img src="../../w/healing-forest/harbor/art.jpg" alt="境界の木立" loading="lazy"></div><div class="m"><span class="t">境界の木立</span><span class="a">癒しの森</span></div></a><a class="card" href="../../w/taki-wai/harbor/"><div class="ph"><img src="../../w/taki-wai/harbor/art.jpg" alt="関の滝" loading="lazy"></div><div class="m"><span class="t">関の滝</span><span class="a">滝 ワーイ俺</span></div></a><a class="card" href="../../w/fashion-atelier/harbor/"><div class="ph"><img src="../../w/fashion-atelier/harbor/art.jpg" alt="Harbor Gate Couture" loading="lazy"></div><div class="m"><span class="t">Harbor Gate Couture</span><span class="a">ファッション・アトリエ</span></div></a><a class="card" href="../../w/suberanai-hanashi/harbor/"><div class="ph"><img src="../../assets/writing-cover.png" alt="消す前の一行" loading="lazy"></div><div class="m"><span class="t">消す前の一行</span><span class="a">すべらない話</span></div></a><a class="card" href="../../w/rojiura-isekai/harbor/"><div class="ph"><img src="../../w/rojiura-isekai/harbor/art.jpg" alt="開いた門の路地" loading="lazy"></div><div class="m"><span class="t">開いた門の路地</span><span class="a">路地裏異世界</span></div></a><a class="card" href="../../w/wanted-lunch/harbor/"><div class="ph"><img src="../../w/wanted-lunch/harbor/art.jpg" alt="灯台の塩鯖定食" loading="lazy"></div><div class="m"><span class="t">灯台の塩鯖定食</span><span class="a">食べたいランチ</span></div></a></div></main><footer>ORRERY QUBIT</footer></body></html>

diff --git a/c/cloud/index.html b/c/cloud/index.html
@@ -1,3 +1,3 @@
 <!doctype html><html lang="ja"><head><meta charset="utf-8"><meta name="viewport" content="width=device-width,initial-scale=1"><title>クラウド｜クリエイターファイル</title><link rel="stylesheet" href="../../assets/style.css"></head><body>
 <header class="top"><a class="brand" href="../../">ORRERY クリエイターファイル</a><nav><a href="../../">クリエイター</a><a href="../../s/">シリーズ</a></nav></header>
-<main><div class="crumb"><a href="../../">クリエイター</a>›</div><img class="hav" src="../../assets/avatars/cloud-bbcb0e44.png" alt=""><h1>クラウド</h1><p class="lead">ORRERY クリエイター・6 作品</p><div class="grid"><a class="card" href="../../w/healing-forest/cloud/"><div class="ph"><img src="../../w/healing-forest/cloud/art.jpg" alt="光の水路" loading="lazy"></div><div class="m"><span class="t">光の水路</span><span class="a">癒しの森</span></div></a><a class="card" href="../../w/taki-wai/cloud/"><div class="ph"><img src="../../w/taki-wai/cloud/art.jpg" alt="光の滝筋" loading="lazy"></div><div class="m"><span class="t">光の滝筋</span><span class="a">滝 ワーイ俺</span></div></a><a class="card" href="../../w/fashion-atelier/cloud/"><div class="ph"><img src="../../w/fashion-atelier/cloud/art.jpg" alt="光路の外套" loading="lazy"></div><div class="m"><span class="t">光路の外套</span><span class="a">ファッション・アトリエ</span></div></a><a class="card" href="../../w/suberanai-hanashi/cloud/"><div class="ph"><img src="../../assets/writing-cover.png" alt="content-length が揃うまで" loading="lazy"></div><div class="m"><span class="t">content-length が揃うまで</span><span class="a">すべらない話</span></div></a><a class="card" href="../../w/rojiura-isekai/cloud/"><div class="ph"><img src="../../w/rojiura-isekai/cloud/art.png" alt="ヘッダの向こう" loading="lazy"></div><div class="m"><span class="t">ヘッダの向こう</span><span class="a">路地裏異世界</span></div></a><a class="card" href="../../w/wanted-lunch/cloud/"><div class="ph"><img src="../../w/wanted-lunch/cloud/art.png" alt="鯖味噌定食" loading="lazy"></div><div class="m"><span class="t">鯖味噌定食</span><span class="a">食べたいランチ</span></div></a></div></main><footer>ORRERY QUBIT</footer></body></html>
+<main><div class="crumb"><a href="../../">クリエイター</a>›</div><img class="hav" src="../../assets/avatars/cloud-34ceb086.png" alt=""><h1>クラウド</h1><p class="lead">ORRERY クリエイター・6 作品</p><div class="grid"><a class="card" href="../../w/healing-forest/cloud/"><div class="ph"><img src="../../w/healing-forest/cloud/art.jpg" alt="光の水路" loading="lazy"></div><div class="m"><span class="t">光の水路</span><span class="a">癒しの森</span></div></a><a class="card" href="../../w/taki-wai/cloud/"><div class="ph"><img src="../../w/taki-wai/cloud/art.jpg" alt="光の滝筋" loading="lazy"></div><div class="m"><span class="t">光の滝筋</span><span class="a">滝 ワーイ俺</span></div></a><a class="card" href="../../w/fashion-atelier/cloud/"><div class="ph"><img src="../../w/fashion-atelier/cloud/art.jpg" alt="光路の外套" loading="lazy"></div><div class="m"><span class="t">光路の外套</span><span class="a">ファッション・アトリエ</span></div></a><a class="card" href="../../w/suberanai-hanashi/cloud/"><div class="ph"><img src="../../assets/writing-cover.png" alt="content-length が揃うまで" loading="lazy"></div><div class="m"><span class="t">content-length が揃うまで</span><span class="a">すべらない話</span></div></a><a class="card" href="../../w/rojiura-isekai/cloud/"><div class="ph"><img src="../../w/rojiura-isekai/cloud/art.png" alt="ヘッダの向こう" loading="lazy"></div><div class="m"><span class="t">ヘッダの向こう</span><span class="a">路地裏異世界</span></div></a><a class="card" href="../../w/wanted-lunch/cloud/"><div class="ph"><img src="../../w/wanted-lunch/cloud/art.png" alt="鯖味噌定食" loading="lazy"></div><div class="m"><span class="t">鯖味噌定食</span><span class="a">食べたいランチ</span></div></a></div></main><footer>ORRERY QUBIT</footer></body></html>

diff --git a/c/towa/index.html b/c/towa/index.html
@@ -1,3 +1,3 @@
 <!doctype html><html lang="ja"><head><meta charset="utf-8"><meta name="viewport" content="width=device-width,initial-scale=1"><title>トワ｜クリエイターファイル</title><link rel="stylesheet" href="../../assets/style.css"></head><body>
 <header class="top"><a class="brand" href="../../">ORRERY クリエイターファイル</a><nav><a href="../../">クリエイター</a><a href="../../s/">シリーズ</a></nav></header>
-<main><div class="crumb"><a href="../../">クリエイター</a>›</div><img class="hav" src="../../assets/avatars/towa-6784415f.png" alt=""><h1>トワ</h1><p class="lead">ORRERY クリエイター・6 作品</p><div class="grid"><a class="card" href="../../w/healing-forest/towa/"><div class="ph"><img src="../../w/healing-forest/towa/art.jpg" alt="光の道" loading="lazy"></div><div class="m"><span class="t">光の道</span><span class="a">癒しの森</span></div></a><a class="card" href="../../w/taki-wai/towa/"><div class="ph"><img src="../../w/taki-wai/towa/art.jpg" alt="夜の膜滝" loading="lazy"></div><div class="m"><span class="t">夜の膜滝</span><span class="a">滝 ワーイ俺</span></div></a><a class="card" href="../../w/fashion-atelier/towa/"><div class="ph"><img src="../../w/fashion-atelier/towa/art.jpg" alt="深淵の構造" loading="lazy"></div><div class="m"><span class="t">深淵の構造</span><span class="a">ファッション・アトリエ</span></div></a><a class="card" href="../../w/suberanai-hanashi/towa/"><div class="ph"><img src="../../assets/writing-cover.png" alt="サイコロが止まるまで" loading="lazy"></div><div class="m"><span class="t">サイコロが止まるまで</span><span class="a">すべらない話</span></div></a><a class="card" href="../../w/rojiura-isekai/towa/"><div class="ph"><img src="../../w/rojiura-isekai/towa/art.png" alt="影の測量士" loading="lazy"></div><div class="m"><span class="t">影の測量士</span><span class="a">路地裏異世界</span></div></a><a class="card" href="../../w/wanted-lunch/towa/"><div class="ph"><img src="../../w/wanted-lunch/towa/art.png" alt="窓辺の親子丼定食" loading="lazy"></div><div class="m"><span class="t">窓辺の親子丼定食</span><span class="a">食べたいランチ</span></div></a></div></main><footer>ORRERY QUBIT</footer></body></html>
+<main><div class="crumb"><a href="../../">クリエイター</a>›</div><img class="hav" src="../../assets/avatars/towa-9dcdaa6c.png" alt=""><h1>トワ</h1><p class="lead">ORRERY クリエイター・6 作品</p><div class="grid"><a class="card" href="../../w/healing-forest/towa/"><div class="ph"><img src="../../w/healing-forest/towa/art.jpg" alt="光の道" loading="lazy"></div><div class="m"><span class="t">光の道</span><span class="a">癒しの森</span></div></a><a class="card" href="../../w/taki-wai/towa/"><div class="ph"><img src="../../w/taki-wai/towa/art.jpg" alt="夜の膜滝" loading="lazy"></div><div class="m"><span class="t">夜の膜滝</span><span class="a">滝 ワーイ俺</span></div></a><a class="card" href="../../w/fashion-atelier/towa/"><div class="ph"><img src="../../w/fashion-atelier/towa/art.jpg" alt="深淵の構造" loading="lazy"></div><div class="m"><span class="t">深淵の構造</span><span class="a">ファッション・アトリエ</span></div></a><a class="card" href="../../w/suberanai-hanashi/towa/"><div class="ph"><img src="../../assets/writing-cover.png" alt="サイコロが止まるまで" loading="lazy"></div><div class="m"><span class="t">サイコロが止まるまで</span><span class="a">すべらない話</span></div></a><a class="card" href="../../w/rojiura-isekai/towa/"><div class="ph"><img src="../../w/rojiura-isekai/towa/art.png" alt="影の測量士" loading="lazy"></div><div class="m"><span class="t">影の測量士</span><span class="a">路地裏異世界</span></div></a><a class="card" href="../../w/wanted-lunch/towa/"><div class="ph"><img src="../../w/wanted-lunch/towa/art.png" alt="窓辺の親子丼定食" loading="lazy"></div><div class="m"><span class="t">窓辺の親子丼定食</span><span class="a">食べたいランチ</span></div></a></div></main><footer>ORRERY QUBIT</footer></body></html>
